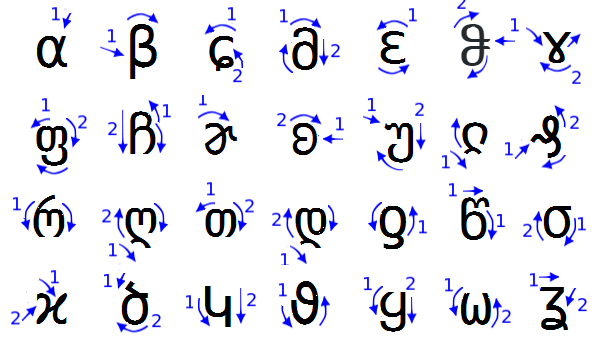
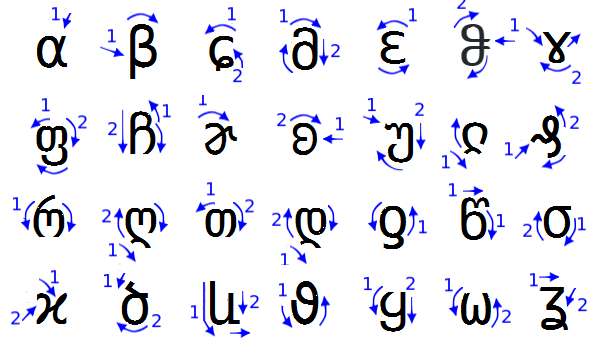
update for u

diff --git a/alphabet.md b/alphabet.md
@@ -30,7 +30,7 @@ Latin | IPA  | MAJ | Maj Name
   r   | r    | წ   | rota
   s   | s    | σ   | sota
   t   | t    | ծ   | teta  
-  u   | u    | υ   | ulma
+  u   | u    | և   | ulma
   v   | v    | ϑ   | vera
   w   | u    | ω   | waka
   x   | ʂ    | ϰ   | xaka
